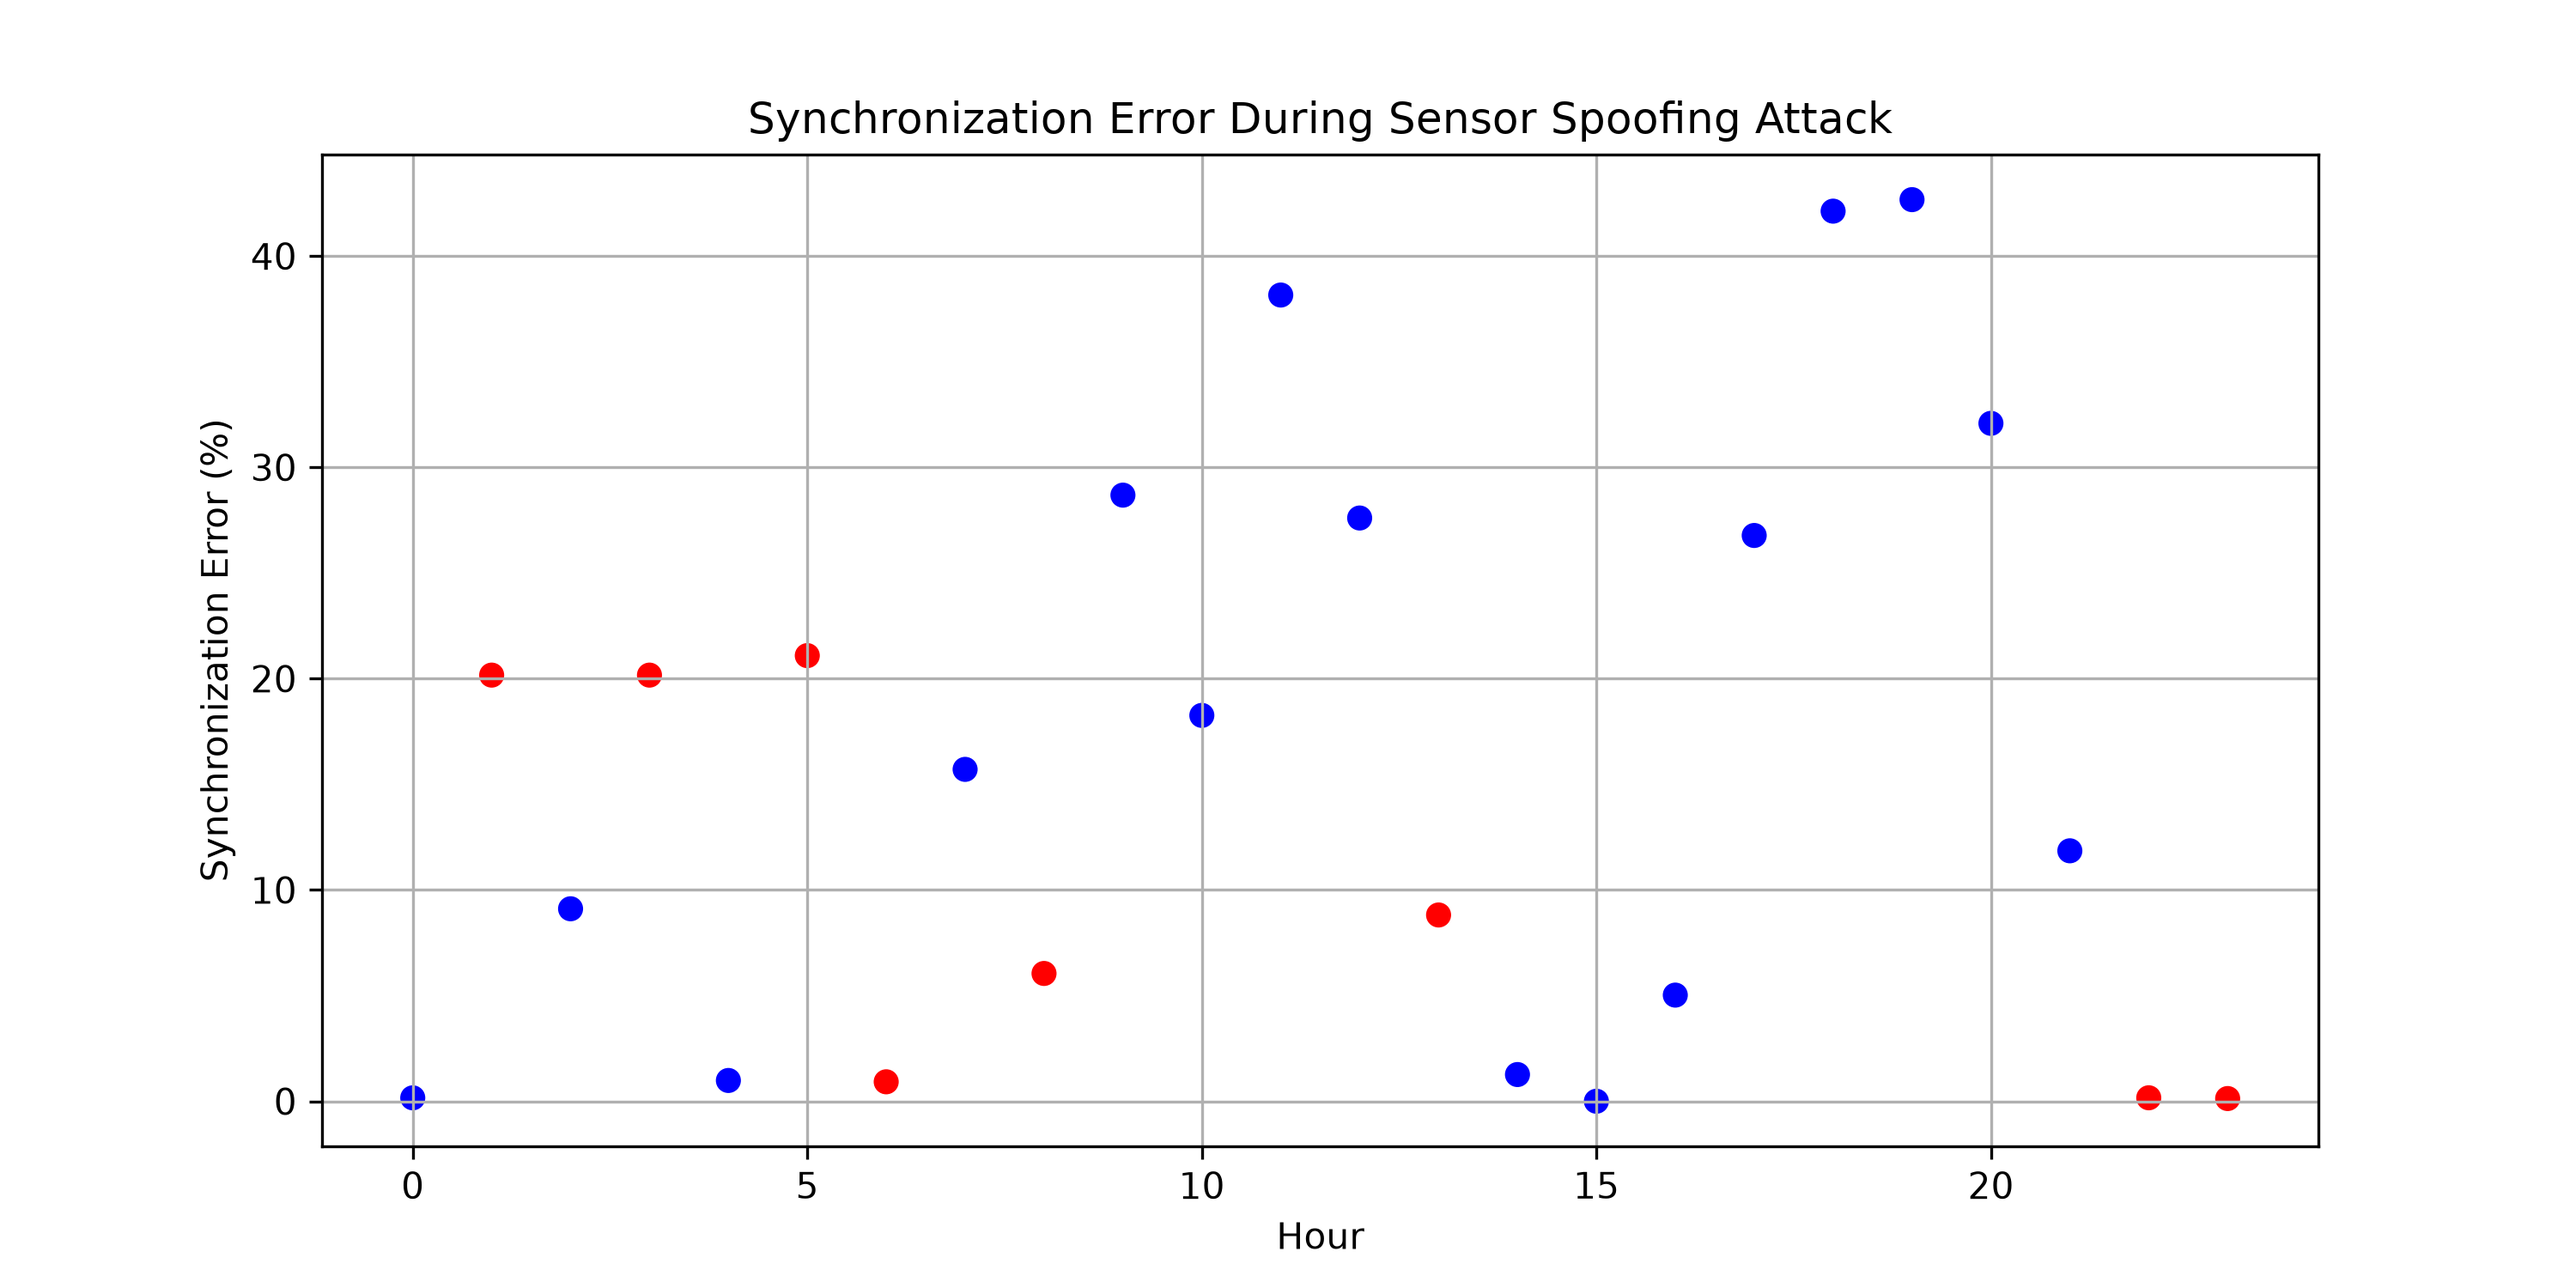
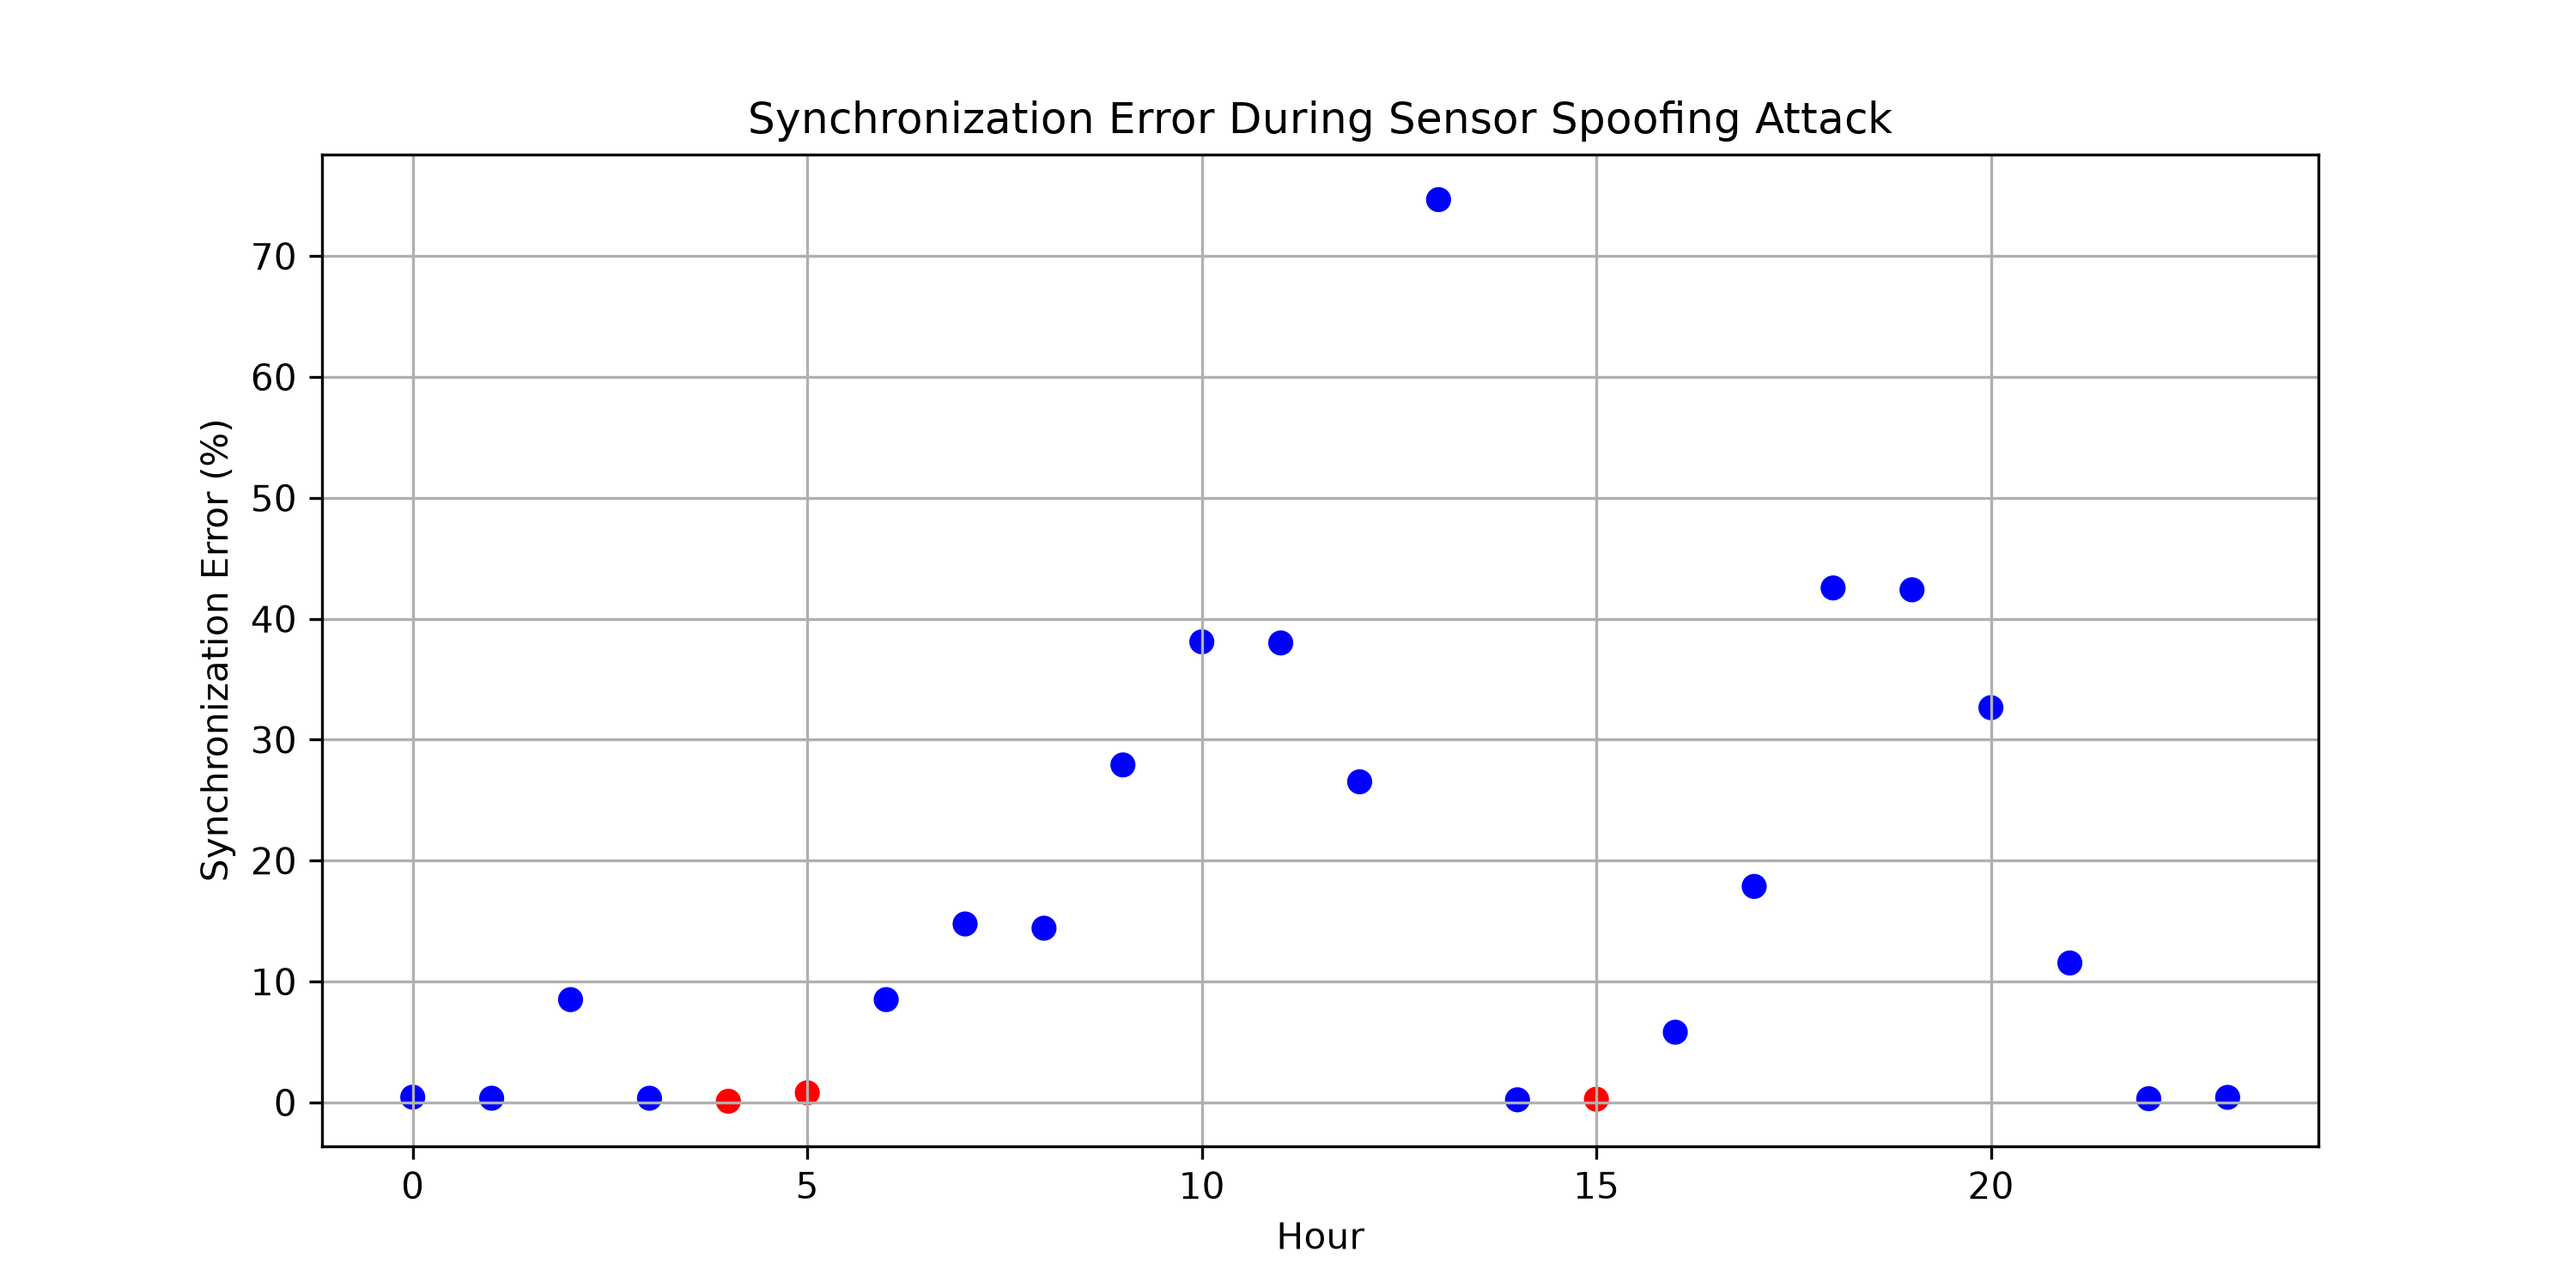
Implemented Replay Attack simulation

diff --git a/simulation.py b/simulation.py
@@ -6,6 +6,7 @@ from sensor import Sensor
 from delay import DelayBuffer
 from attack import SensorSpoofingAttack
 from detector import AttackDetector
+from replay_attack import ReplayAttack
 
 
 class Simulation:
@@ -20,6 +21,10 @@ class Simulation:
         self.attacker = SensorSpoofingAttack(attack_probability=0.20,
     spoof_amount=20)
         self.detector = AttackDetector(threshold=15)
+        self.replay_attack = ReplayAttack(
+    probability=0.15,
+    replay_length=5
+)
 
     def run(self):
         for _, row in self.data.iterrows():
@@ -45,27 +50,25 @@ class Simulation:
                 battery_power = 0
 
             #update the digital twin and calculate the synchronization error
+
             true_soc = self.battery.get_soc()
 
             measured_soc = self.sensor.measure_soc(true_soc)
 
-            spoofed_soc, attack_active = self.attacker.attack(measured_soc)
+            spoofed_soc, spoof_attack = self.attacker.attack(measured_soc)
 
-            # ---------- Attack Detection ----------
+            replayed_soc, replay_attack = self.replay_attack.attack(spoofed_soc)
 
-            self.detector.detect(spoofed_soc)
-
-            attack_detected = self.detector.attack_detected
-
-            # ---------- Communication Delay ----------
-
-            delayed_soc = self.delay.update(spoofed_soc)
-
-            # ---------- Digital Twin ----------
+            delayed_soc = self.delay.update(replayed_soc)
 
             self.digital_twin.update(delayed_soc)
 
             sync_error = self.digital_twin.calculate_error(self.battery)
+
+            
+            self.detector.detect(sync_error)
+
+            attack_detected = self.detector.attack_detected
 
             
 
@@ -80,9 +83,11 @@ class Simulation:
                     "SOC": self.battery.get_soc(),
                     "Sync_Error": sync_error,
                     "Delay Steps": self.delay.delay_steps,
-                    "Attack": attack_active,
+                    "Attack": spoof_attack,
                     "Attack_Detected": attack_detected,
                     "Spoofed_SOC": spoofed_soc,
+                    "Replay Attack": replay_attack,
+                    "Replay_SOC": replayed_soc,
                 }
             )
 

diff --git a/replay_attack.py b/replay_attack.py
@@ -1,0 +1,29 @@
+from collections import deque
+import random
+
+
+class ReplayAttack:
+
+    def __init__(self,
+                 probability=0.15,
+                 replay_length=5):
+
+        self.probability = probability
+        self.replay_length = replay_length
+
+        self.buffer = deque(maxlen=replay_length)
+
+    def attack(self, measurement):
+
+        # Always record the newest measurement
+        self.buffer.append(measurement)
+
+        attack_active = random.random() < self.probability
+
+        if attack_active and len(self.buffer) == self.replay_length:
+
+            replayed_value = self.buffer[0]
+
+            return replayed_value, True
+
+        return measurement, False

diff --git a/main.py b/main.py
@@ -81,6 +81,12 @@ print("Detector Statistics")
 
 print(simulation.detector.statistics())
 
+print(results[["Hour",
+               "SOC",
+               "Spoofed_SOC",
+               "Replay_SOC",
+               "Replay Attack"]])
+
 # ------------------------------------
 # Save Results
 # ------------------------------------
@@ -146,11 +152,5 @@ print("Energy Valid:", (results["Energy"].min() >= 0) and (results["Energy"].max
 
 
 
-from plots import (
-    plot_soc,
-    plot_energy,
-    plot_solar_demand,
-    plot_battery_power,
-    plot_sync_error
-)
+
 plot_sync_error(results)

diff --git a/test_replay_attack.py b/test_replay_attack.py
@@ -1,0 +1,10 @@
+from replay_attack import ReplayAttack
+
+attack = ReplayAttack(
+    probability=1.0,
+    replay_length=3
+)
+
+for i in range(10):
+    value, active = attack.attack(i)
+    print(i, value, active)
